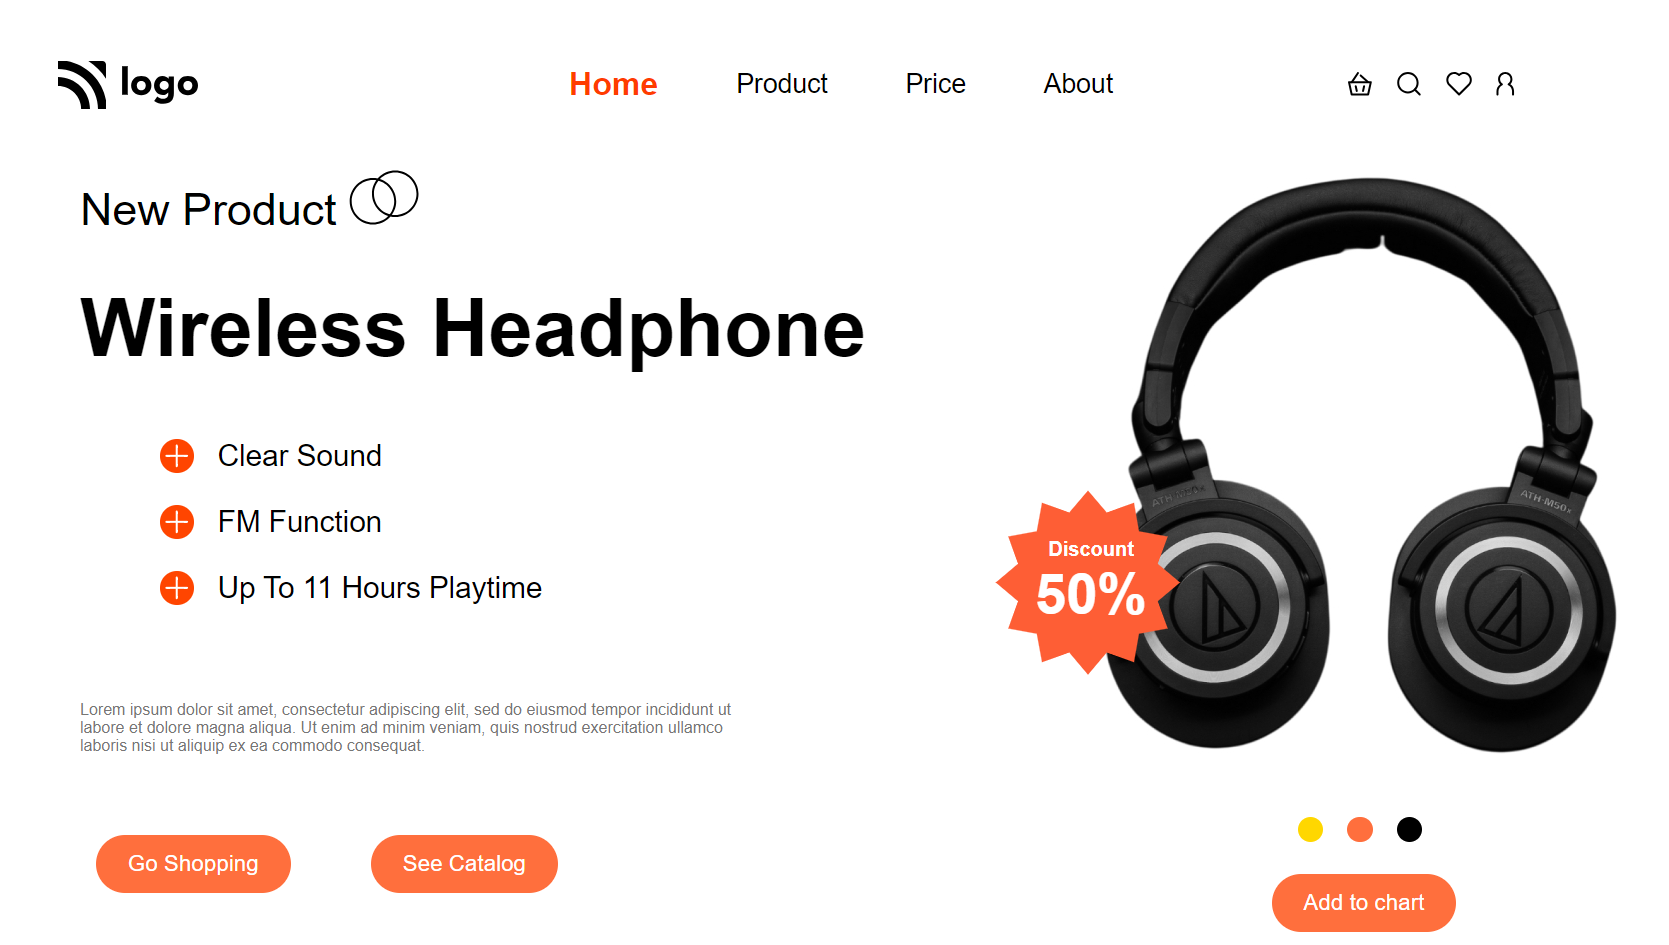
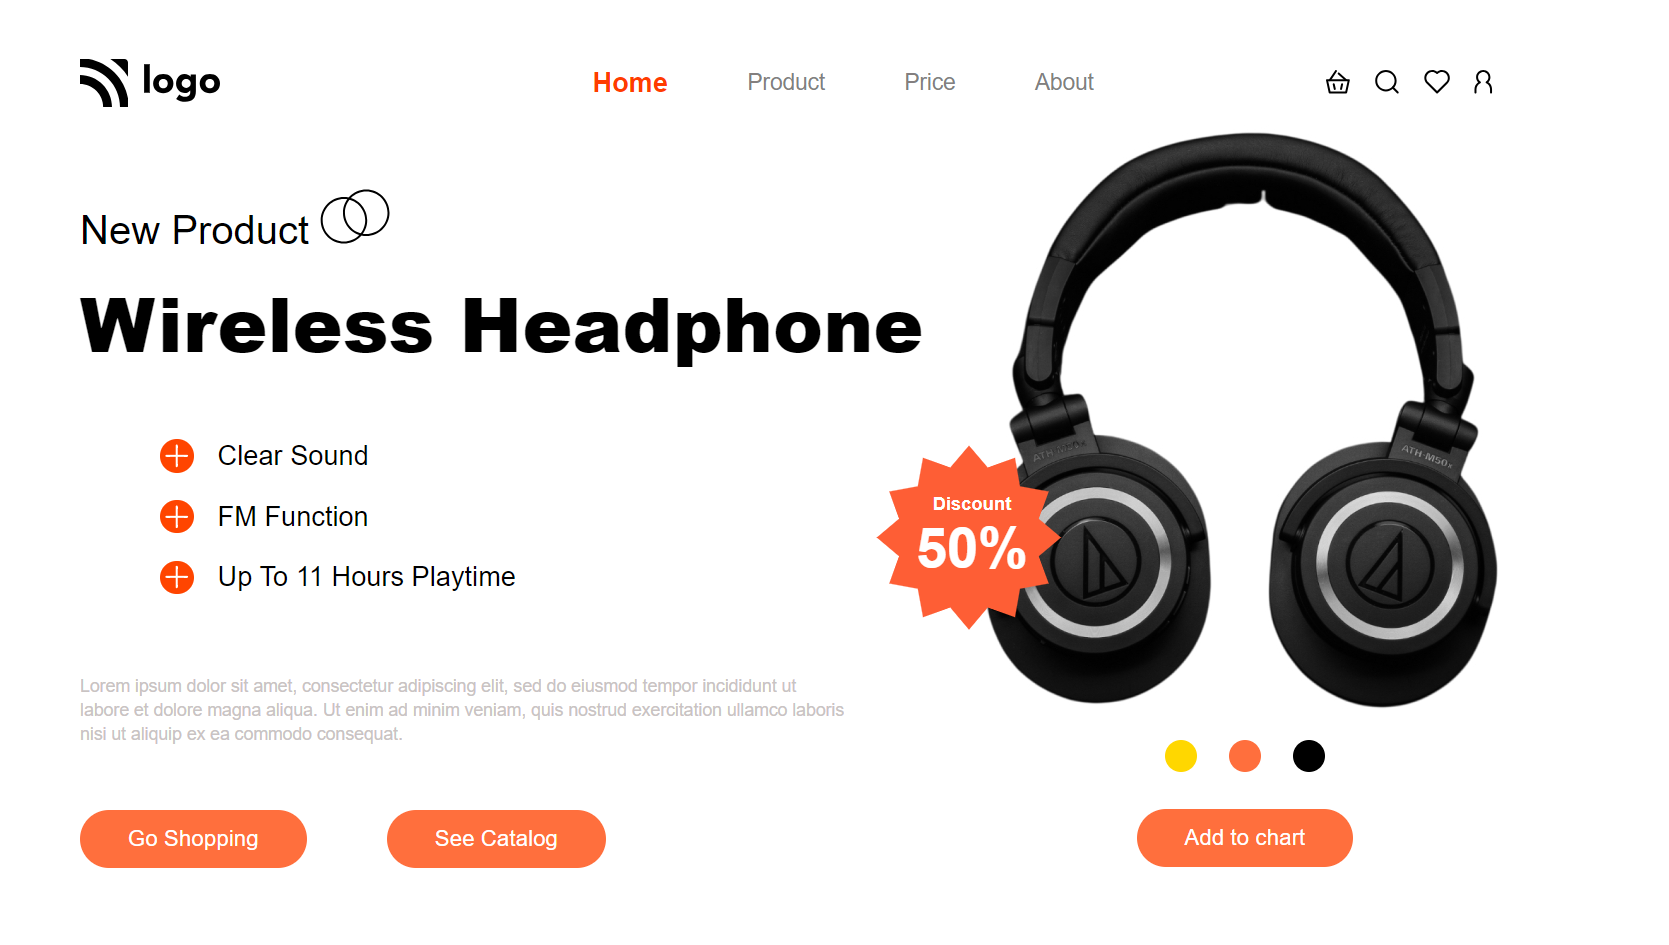
modify css code for better view

diff --git a/css/index.css b/css/index.css
@@ -9,7 +9,7 @@ nav{
     display: flex;
     align-items: center;
     justify-content: space-between;
-    margin: 3.5%;
+    margin: 3.5rem 5rem 1rem 5rem;
 }
 
 
@@ -17,9 +17,10 @@ nav{
     display: flex;
     justify-content: space-between;
     align-items: center;
-    gap: 25%;
-    font-size: 2rem;
-    font-weight: 100;
+    gap: 30%;
+    font-size: 1.7rem;
+    font-weight: 200;
+    color: rgb(131, 127, 127);
 }
 
 
@@ -27,38 +28,41 @@ nav{
     font-weight: 100;
 }
 
-.nav-item-active-item{
+nav :nth-child(1){
     font-weight: 600;
     color: rgb(255, 60, 0);
-    font-size: 2.01rem
+    font-size: 1.7rem
 
 }
 
 
 .intro-section{
     display: flex;
-    padding-left: 5rem;
+    margin-left: 5rem;
 }
 
 .left-section h3{
-    font-size: 2.8rem;
+    font-size: 2.5rem;
+    margin-top: 4rem;
     font-weight: 200;
 }
 
 .left-section h1{
-    font-size: 5rem;
-    margin-top: 3rem;
+    font-size: 4.7rem;
+    margin-top: 1rem;
     margin-bottom: 4rem;
+    width: 91vh;
+    font-weight: 800;
 }
 
 
 .left-section h5{
-    font-size: 1.85rem;
+    font-size: 1.7rem;
     font-weight: 400;
-    margin-top: 2rem; 
+    margin-top: 1.7rem; 
+    margin-left: 5rem;
     display: flex;
     align-items: center;
-    margin-left: 5rem;
 }
 
 .left-section h5 img {
@@ -71,9 +75,11 @@ nav{
 
 
 .text{
-    color: rgb(119, 118, 118);
-    margin-top: 6rem;
-    max-width: 70%;
+    color: rgb(201, 195, 195);
+    margin-top: 5rem;
+    width: 81vh;
+    font-size: 1.1rem;
+    line-height: 1.5rem;
 }
 
 
@@ -81,15 +87,15 @@ nav{
 .action-btns {
     display: flex;
     gap: 5rem;
-    margin: 5rem 0 0 1rem;
+    margin-top: 4rem;
 }
 
 .action-btn {
-    background-color: #ff5a36;
-    color: white;
+    background-color: #FF6F3D;
+    color: rgb(255, 255, 255);
     border: none;
     border-radius: 2rem;
-    padding: 1rem 2rem;
+    padding: 1rem 3rem;
     font-size: 1.4rem;
     text-align: center;
 }
@@ -105,6 +111,7 @@ nav{
 .headphone-div {
     position: relative;
 }
+
 
 .discount {
     position: absolute;
@@ -122,7 +129,7 @@ nav{
 }
 
 .discount-content h4 {
-    font-size: 1.25rem;
+    font-size: 1.15rem;
 }
 
 
@@ -133,18 +140,13 @@ nav{
 
 .dots {
     display: flex;
-    justify-content: center;
-    margin: 2rem;
-    padding-left: 1rem;
 }
 
 
 .dot {
-    width: 1rem;
-    height: 1rem;
-    padding: .3rem;
+    padding: 1rem;
     border-radius: 50%;
-    margin-right: 1.5rem;
+    margin: 0 1rem 2.3rem 1rem;
 }
 
 
@@ -158,14 +160,4 @@ nav{
 
 .black-dot {
     background-color: #000000;
-}
-
-
-.action-btn {
-    background-color: #FF6F3D;
-    color: white;
-    border: none;
-    border-radius: 2rem;
-    padding: 1rem 2rem;
-    font-size: 1.4rem;
 }
